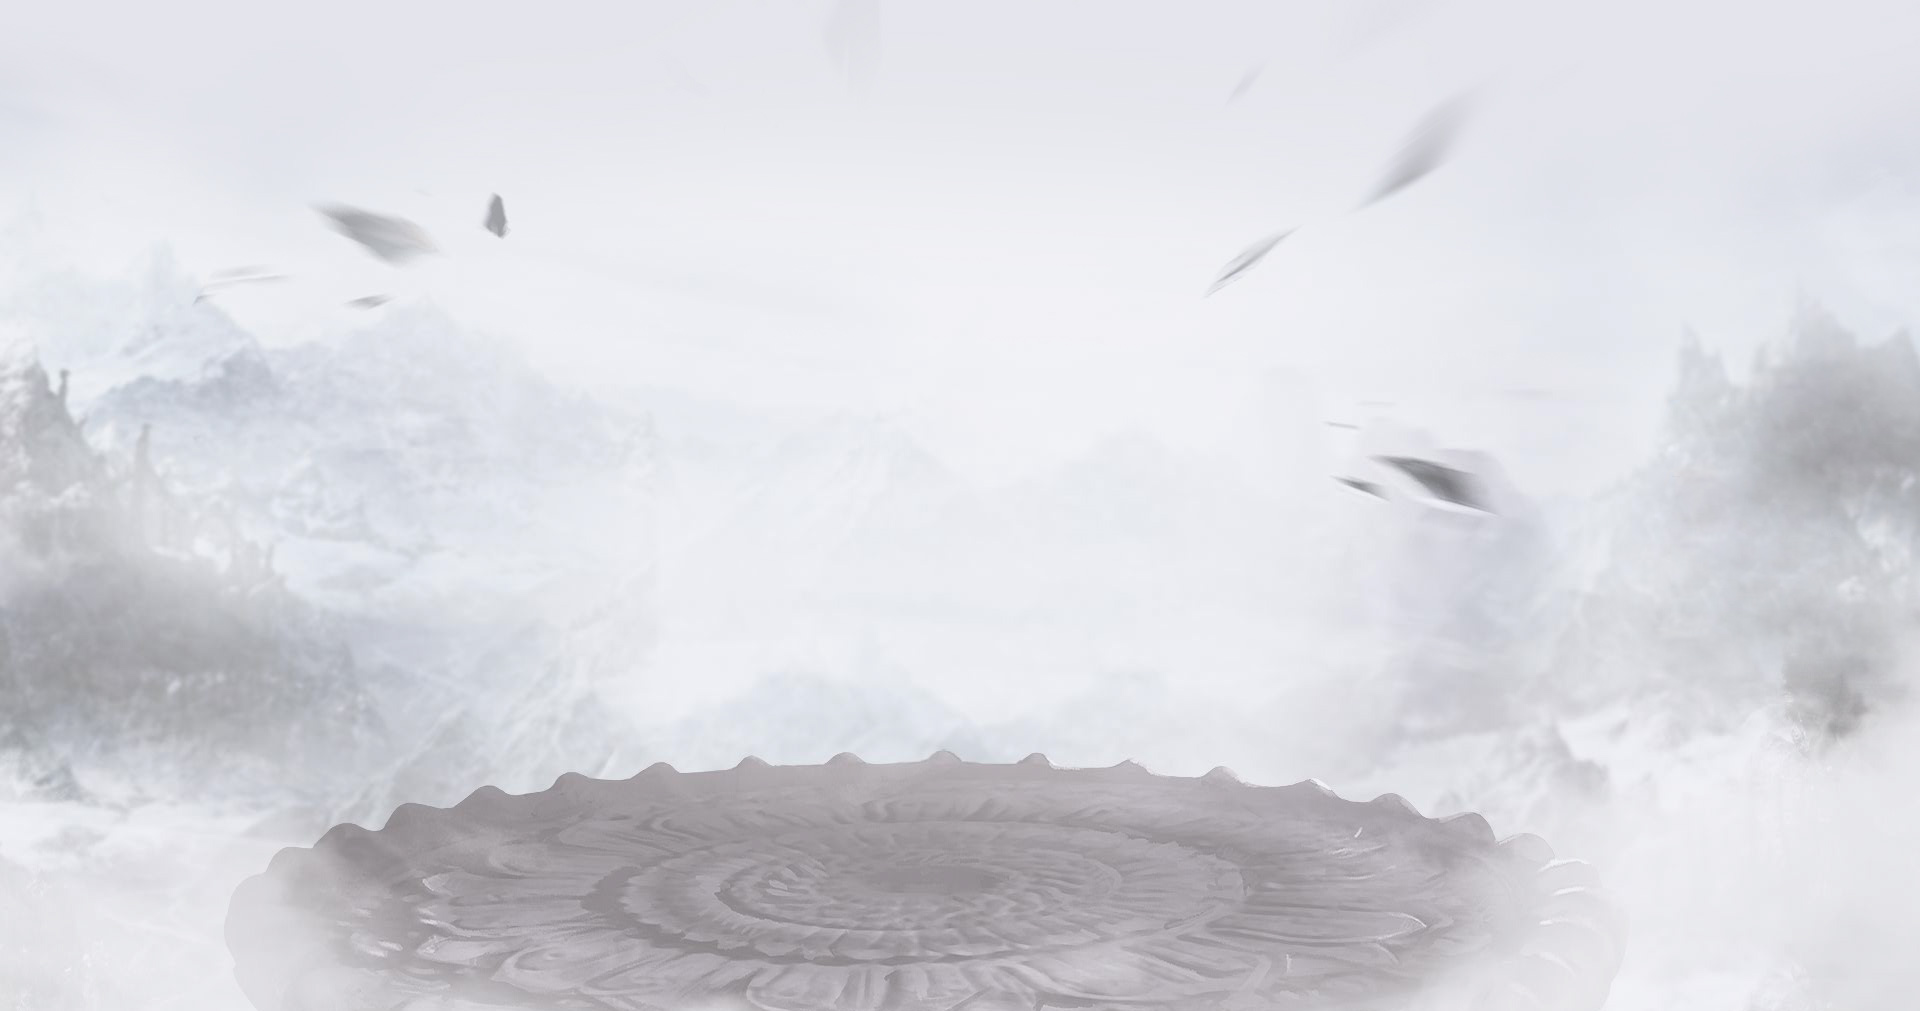
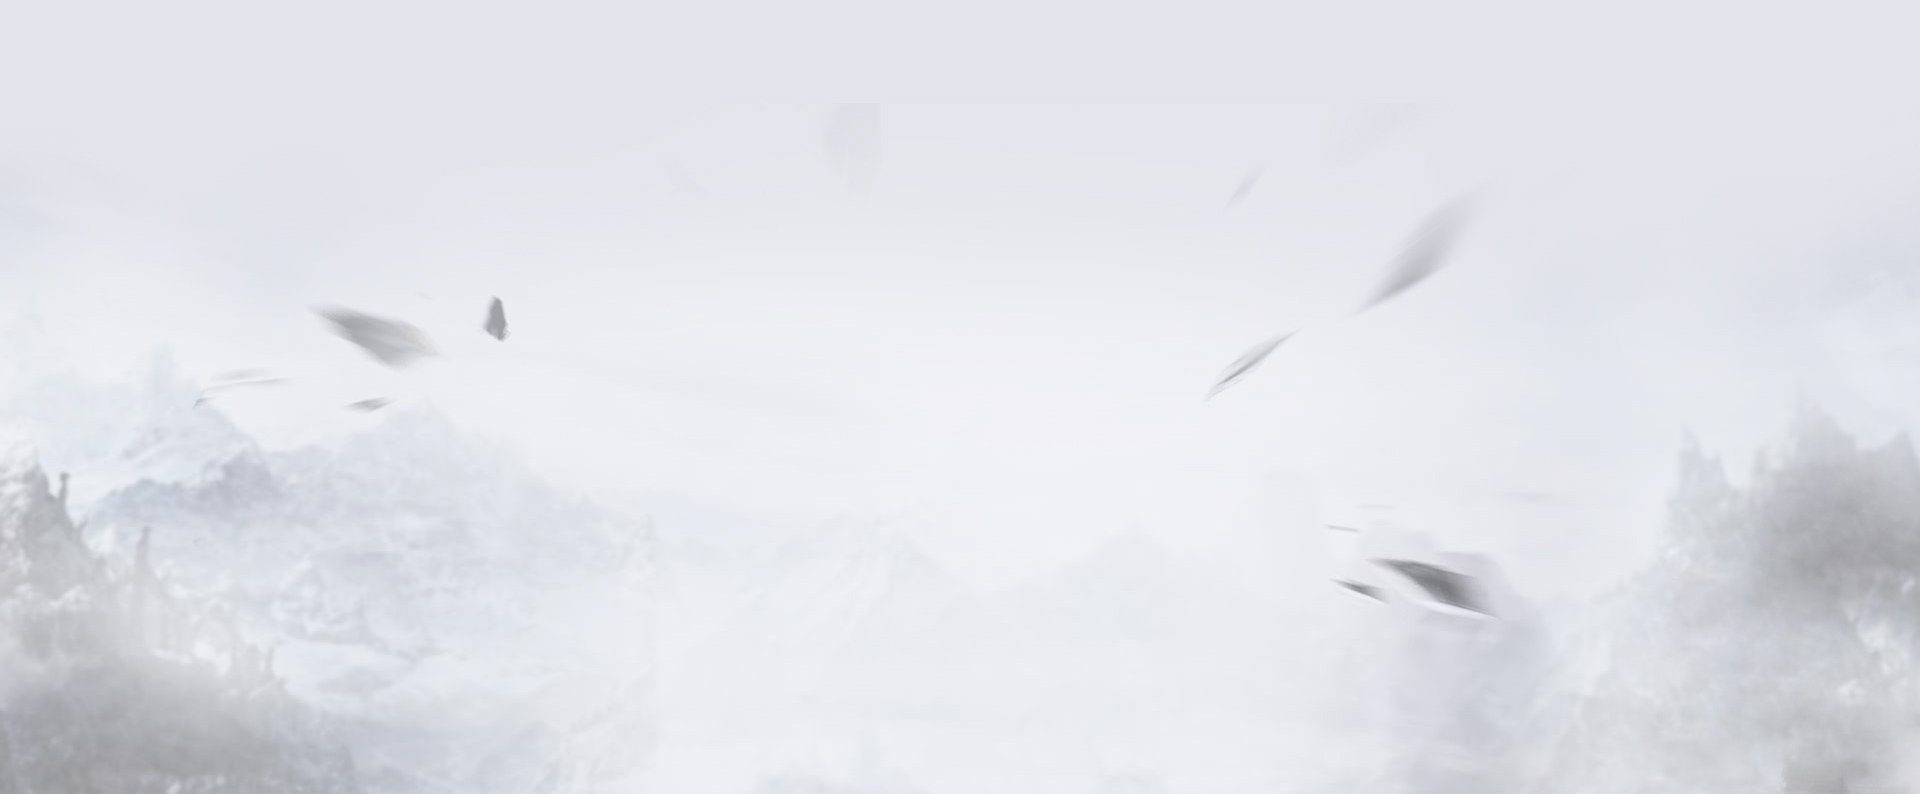
fixxxxx10000

diff --git a/sass/9main.scss b/sass/9main.scss
@@ -35,11 +35,11 @@ a.btn-xephang{position:fixed;top: 60%;left: 0;z-index: 10;
   &:hover{filter: brightness(120%);}
 }
 /*=Header=*/
-.header {position: relative;background:url(../images/bg-top.jpg) no-repeat top center;height: 1019px;overflow: hidden;
-  .bgvideo {width: 1920px;height: 1000px;position: absolute;top:0;left: 50%;margin-left: -960px;background:none;border:none;z-index: 1;
+.header {position: relative;background:url(../images/bg-top.jpg) no-repeat top center;height: 1030px;overflow: hidden;
+  .bgvideo {width: 100%;height: auto;position: absolute;top:0;left: 50%;transform: translate(-50%);background:none;border:none;z-index: 1;
     #videoef{width: 100%;height: auto;}
   }
-  .bg-onvideo{position: absolute;z-index: 2;bottom: 0;
+  .bg-onvideo{position: absolute;z-index: 2;bottom: 0;left: 50%;transform: translate(-50%);width: 100%;height:auto;
     img{max-width: 100%;display: block;}
   }
   .header-center{z-index: 9;position: relative;

diff --git a/sass/9main.css b/sass/9main.css
@@ -218,16 +218,16 @@ a.btn-xephang:hover {
 .header {
   position: relative;
   background: url(../images/bg-top.jpg) no-repeat top center;
-  height: 1019px;
+  height: 1030px;
   overflow: hidden;
 }
 .header .bgvideo {
-  width: 1920px;
-  height: 1000px;
+  width: 100%;
+  height: auto;
   position: absolute;
   top: 0;
   left: 50%;
-  margin-left: -960px;
+  transform: translate(-50%);
   background: none;
   border: none;
   z-index: 1;
@@ -240,6 +240,10 @@ a.btn-xephang:hover {
   position: absolute;
   z-index: 2;
   bottom: 0;
+  left: 50%;
+  transform: translate(-50%);
+  width: 100%;
+  height: auto;
 }
 .header .bg-onvideo img {
   max-width: 100%;
